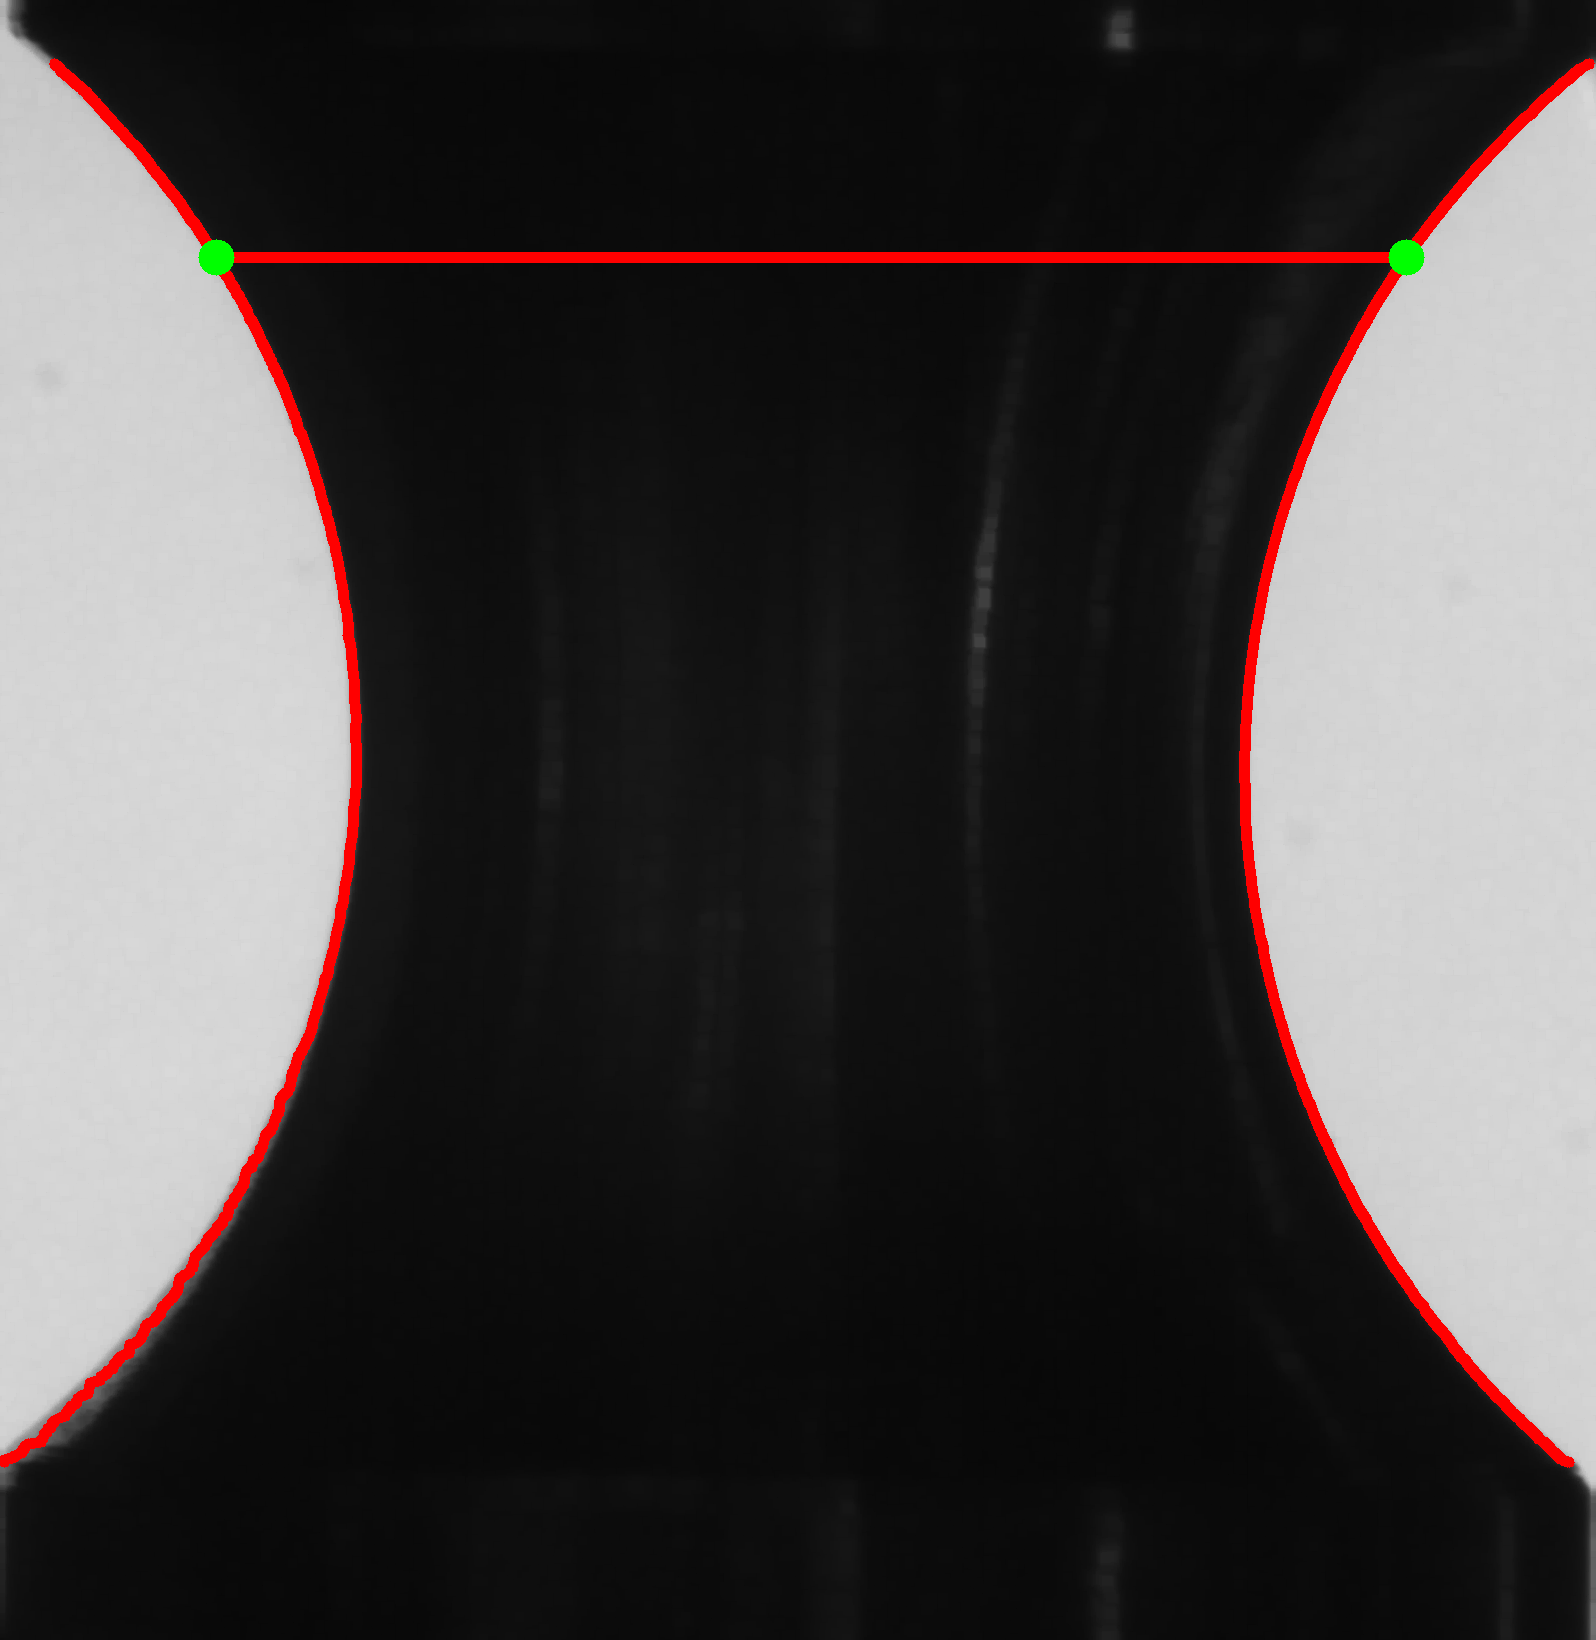
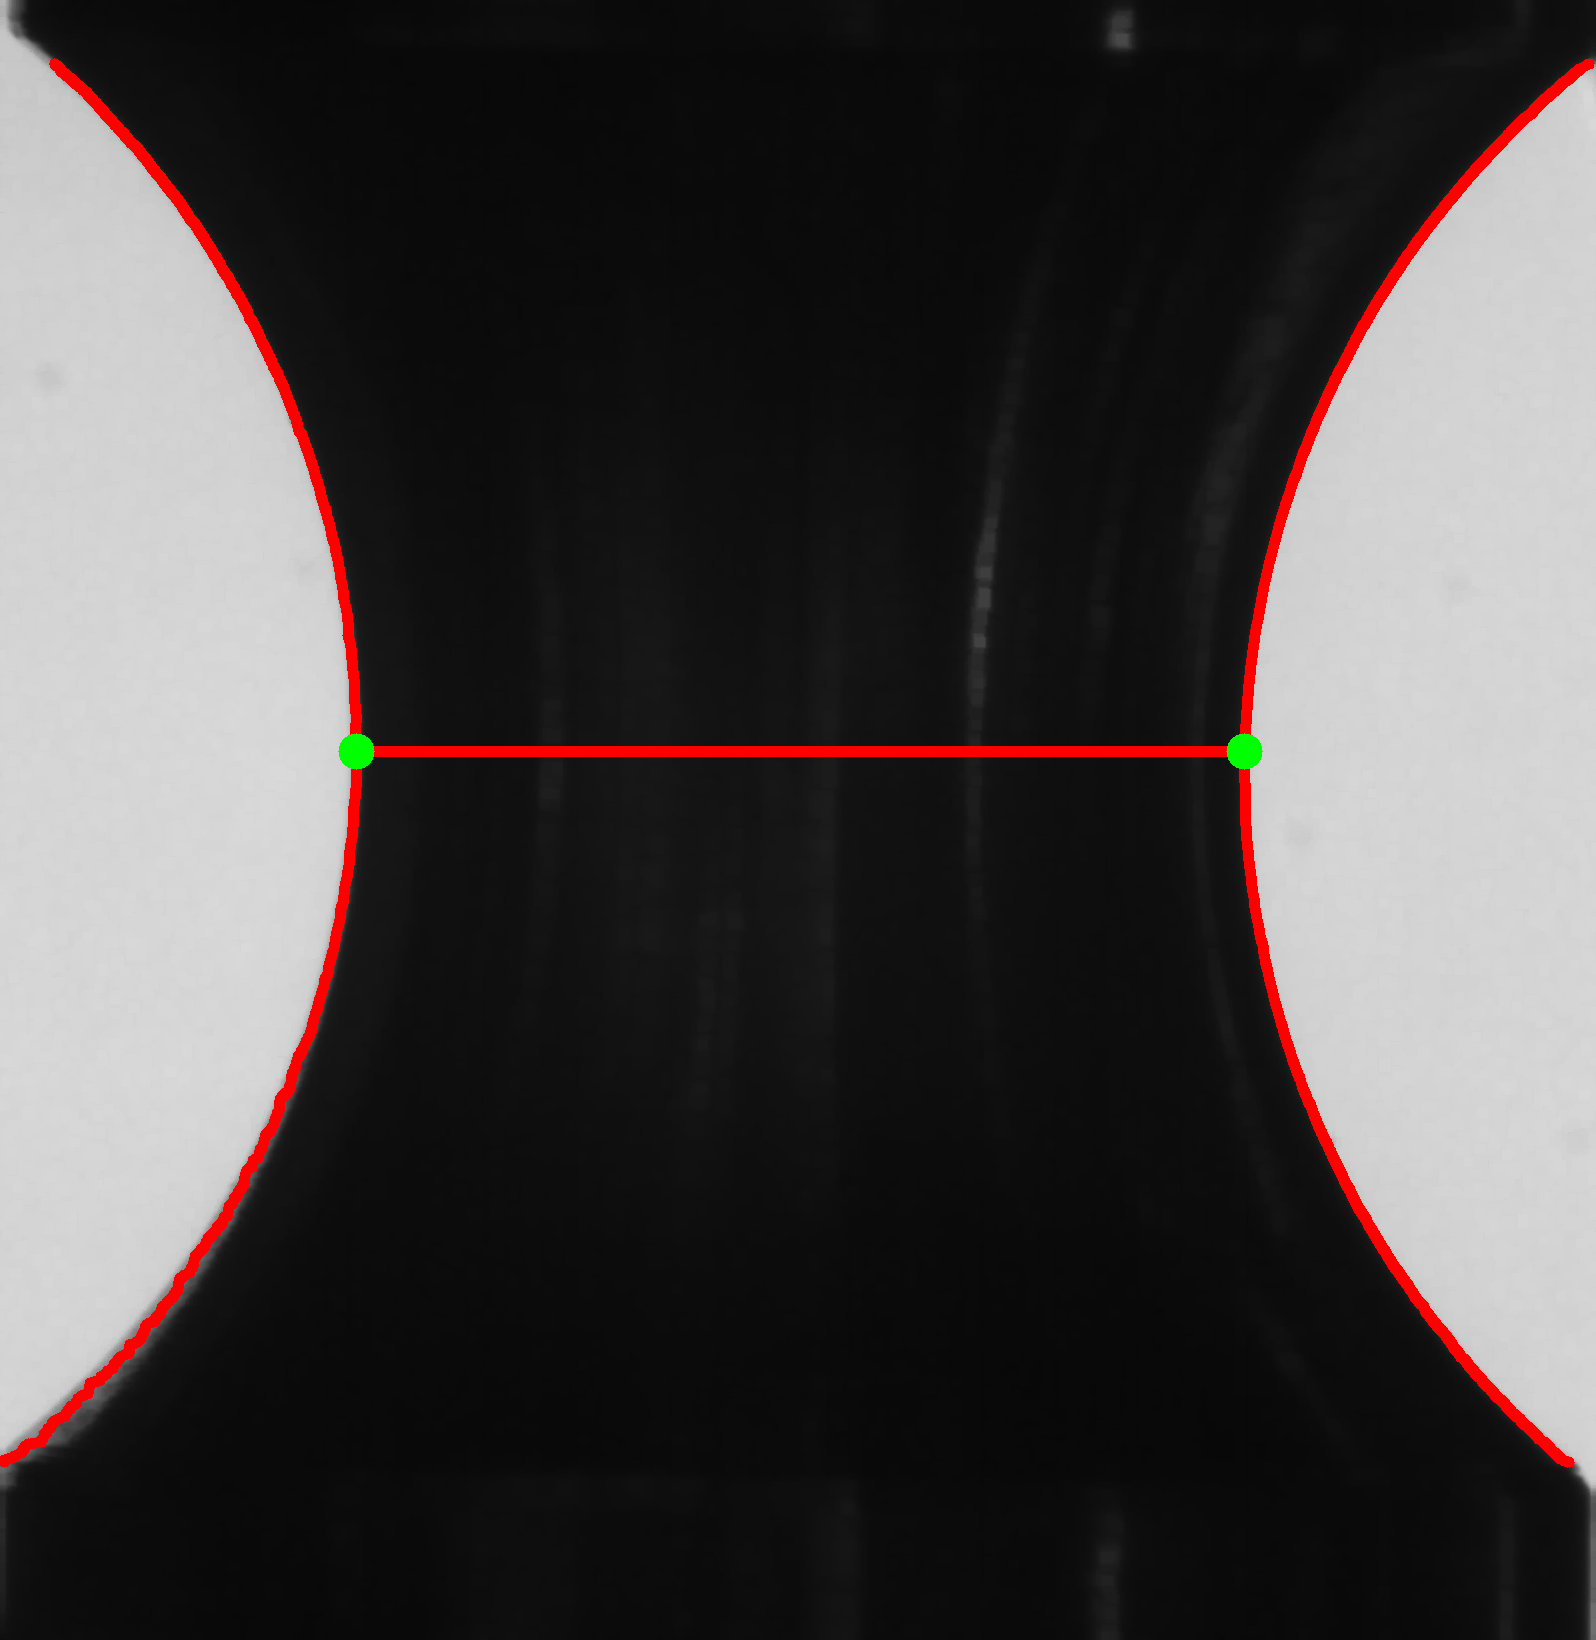
Without concurrency runs normally

Changed region(s): [[0.1228, 0.1244, 0.8904, 0.1866], [0.2149, 0.4354, 0.7982, 0.4665]]

diff --git a/src/EdgeTracking.cpp b/src/EdgeTracking.cpp
@@ -52,63 +52,66 @@ int main(int argc, char **argv) {
   // Without concurrency:
   //---------------------
   // Iterate on elements of image-force vector
-  // for (std::vector<std::pair<std::string, float>>::const_iterator iter =
-  //          images.begin();
-  //      iter != images.end(); ++iter) {
-
-  //   ImageProcessing img(iter->first, iter->second);
-
-  //   float deformation{0.f};
-  //   float stress{0.f};
-
-  //   if (iter == images.begin()) {
-  //     phi0 = (float)img.GetMinimumPixelDistance(
-  //         show, save); // Set the reference minimum
-  //                      // cross section diameter
-  //     deformation = 0.f;
-  //   } else {
-  //     deformation =
-  //         (float)abs(img.GetMinimumPixelDistance(show, save) - phi0) / phi0;
-  //     stress = (float)(iter->second) / area;
-  //   }
-
-  //   output.push_back(
-  //       std::make_pair(deformation, stress)); // Store stress-deformation
-  // }
-
-  //------------------
-  // With concurrency:
-  //------------------
-  std::vector<std::future<float *>> futures;
-
   for (std::vector<std::pair<std::string, float>>::const_iterator iter =
            images.begin();
        iter != images.end(); ++iter) {
 
-    ImageProcessing img(iter->first, iter->second); // Create an instance
+    ImageProcessing img(iter->first, iter->second);
+
+    float deformation{0.f};
+    float stress{0.f};
 
     if (iter == images.begin()) {
       phi0 = img.GetMinimumPixelDiameterAndForce(
           show, save)[0]; // Set the reference minimum cross section diameter
-      output.push_back(std::make_pair(0.f, 0.f)); // Store stress-deformation
+      deformation = 0.f;
     } else {
-      futures.emplace_back(std::async(
-          std::launch::async, &ImageProcessing::GetMinimumPixelDiameterAndForce,
-          img, show, save));
+      deformation =
+          (float)abs(img.GetMinimumPixelDiameterAndForce(show, save)[0] -
+                     phi0) /
+          phi0;
+      stress = (float)(iter->second) / area;
     }
+    output.push_back(
+        std::make_pair(deformation, stress)); // Store stress-deformation
   }
 
-  std::for_each(futures.begin(), futures.end(), [&](std::future<float *> &ftr) {
-    ftr.wait();
-    auto res = ftr.get();
-    deformation = abs(res[0] - phi0) / phi0;
-    stress = (res[1]) / area;
+  //------------------
+  // With concurrency:
+  //------------------
+  // std::vector<std::future<float *>> futures;
 
-    output.push_back(
-        std::make_pair(deformation, stress)); // Store stress - deformation
-  });
+  // for (std::vector<std::pair<std::string, float>>::const_iterator iter =
+  //          images.begin();
+  //      iter != images.end(); ++iter) {
 
-  parser->WriteOutputFile(output); // Write output file
+  //   ImageProcessing img(iter->first, iter->second); // Create an instance
+
+  //   if (iter == images.begin()) {
+  //     phi0 = img.GetMinimumPixelDiameterAndForce(
+  //         show, save)[0]; // Set the reference minimum cross section diameter
+  //     output.push_back(std::make_pair(0.f, 0.f)); // Store stress -
+  //     deformation
+  //   } else {
+  //     futures.emplace_back(std::async(
+  //         std::launch::async,
+  //         &ImageProcessing::GetMinimumPixelDiameterAndForce, img, show,
+  //         save));
+  //   }
+  // }
+
+  // std::for_each(futures.begin(), futures.end(), [&](std::future<float *>
+  // &ftr) {
+  //   ftr.wait();
+  //   auto res = ftr.get();
+  //   deformation = abs(res[0] - phi0) / phi0;
+  //   stress = (res[1]) / area;
+
+  //   output.push_back(
+  //       std::make_pair(deformation, stress)); // Store stress - deformation
+  // });
+
+  // parser->WriteOutputFile(output); // Write output file
 
   //---------------
   // End of program

diff --git a/src/ImageProcessing.cpp b/src/ImageProcessing.cpp
@@ -126,8 +126,8 @@ float *ImageProcessing::GetMinimumPixelDiameterAndForce(bool show, bool save) {
   ComputeMinimumEdges();
   DrawMinimumDiameter(show, save);
 
-  std::unique_lock<std::mutex> lck(_mtx);
-  _cond.wait(lck, [this] { return _user_closed_window; });
+  // std::unique_lock<std::mutex> lck(_mtx);
+  // _cond.wait(lck, [this] { return _user_closed_window; });
 
   diameter_force[0] = (float)_min_distance;
   diameter_force[1] = (float)_force;
@@ -274,8 +274,7 @@ void ImageProcessing::DrawMinimumDiameter(bool &show, bool &save) {
     std::unique_lock<std::mutex> lck(_mtx);
     imshow("Press any key to exit", *tmp);
     waitKey(0); // Wait for a keystroke in the window
-    _user_closed_window = true;
-    _cond.notify_one(); // notif
+    lck.unlock();
   }
   delete tmp;
 }
